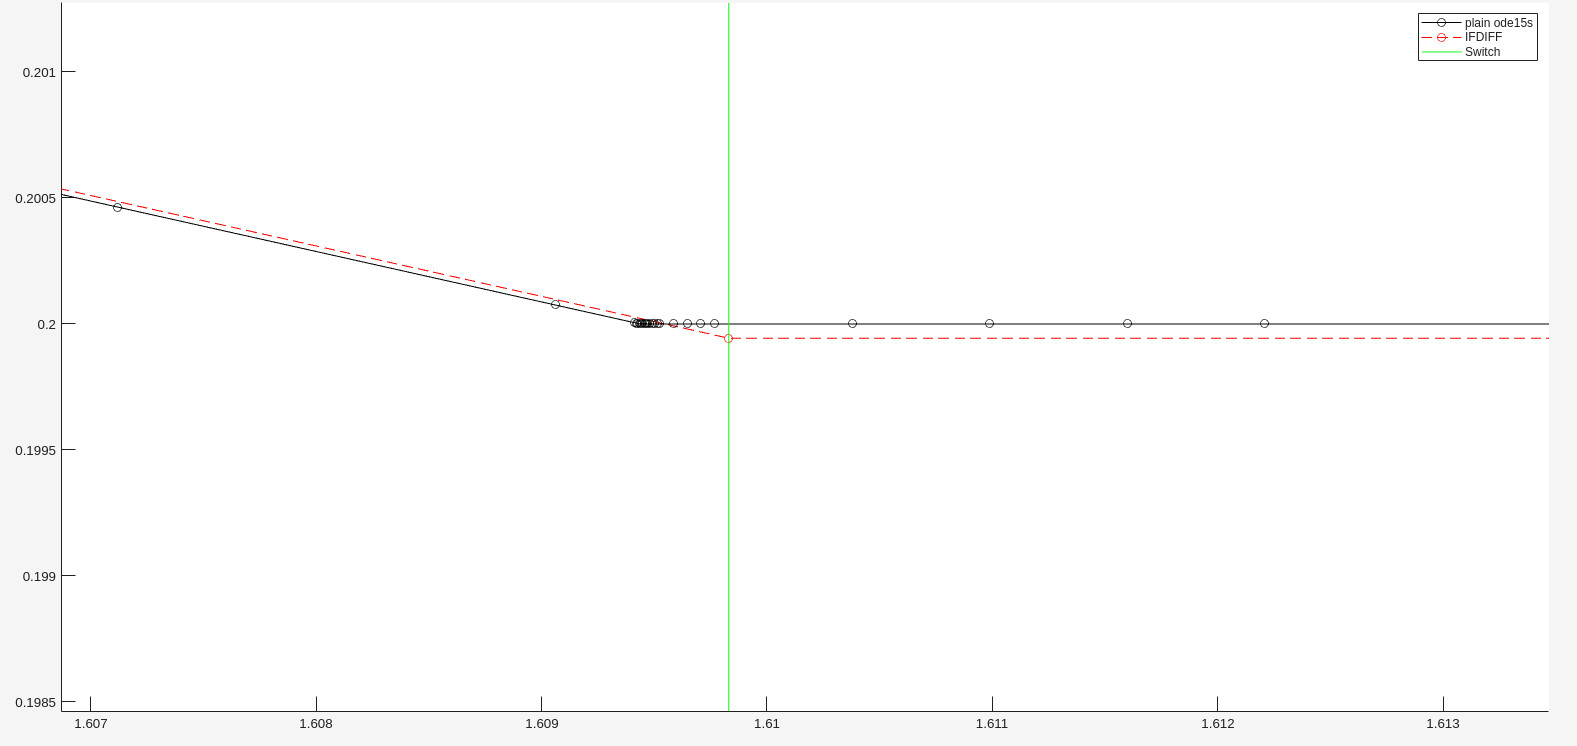
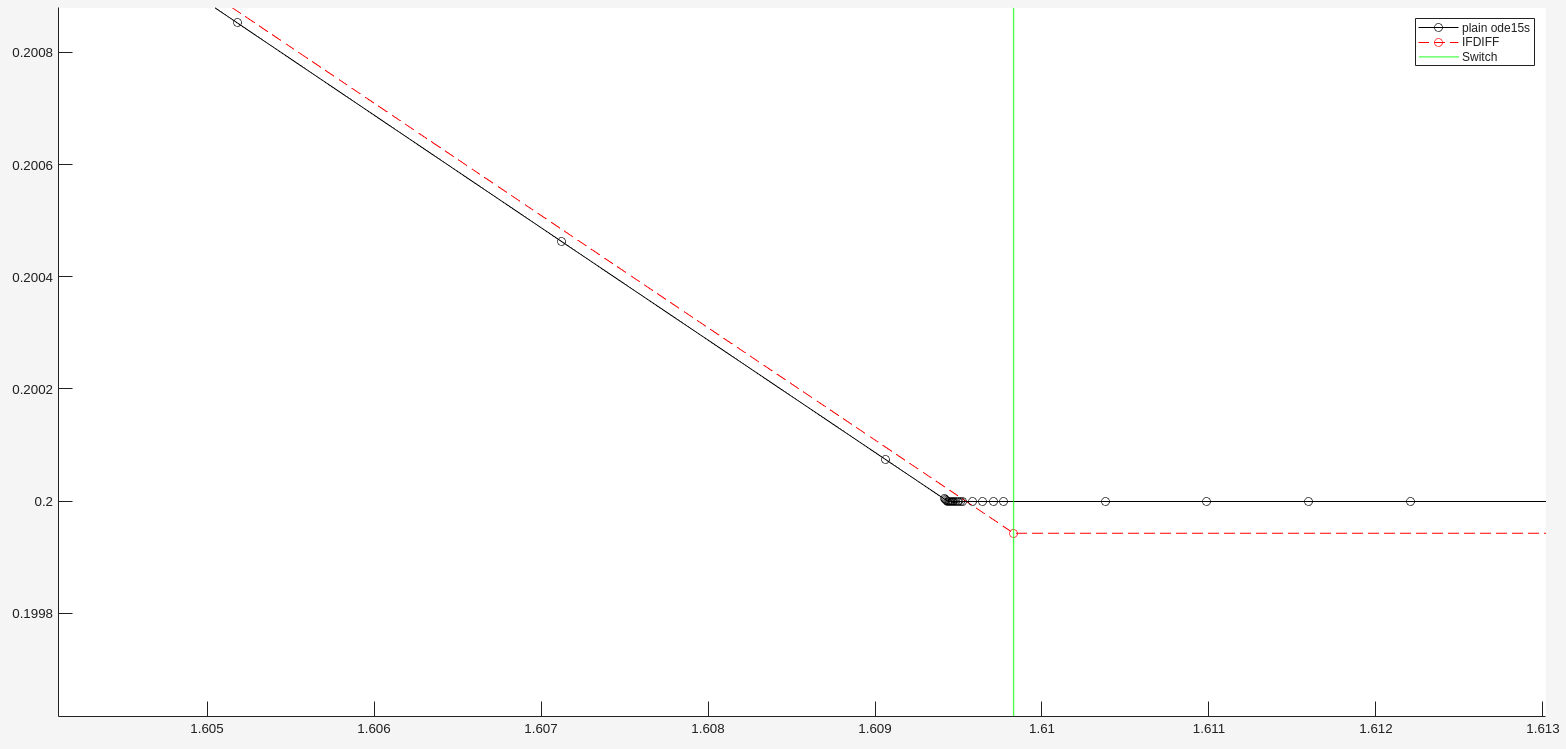
Reworked PR. (See comments)

diff --git a/toolbox/internal/solving/extendODEuntilSwitch_t1_to_t2.m b/toolbox/internal/solving/extendODEuntilSwitch_t1_to_t2.m
@@ -6,42 +6,33 @@ function extendODEuntilSwitch_t1_to_t2(datahandle)
 config = makeConfig();
 data = datahandle.getData();
 
-% last integrator step before switch
-ti = data.SWP_detection.solution_until_t1.x(end); 
-
-% solution at the last time point before switch
-x = deval(data.SWP_detection.solution_until_t1, ti); 
-solution  = data.SWP_detection.solution_until_t1; 
-
-end_point = data.SWP_detection.t2; 
-
-% new step size
-delta_t = end_point - ti;
-
-options   = data.integratorSettings.options;
+solution  = data.SWP_detection.solution_until_t1;
+ti        = solution.x(end);    % last integrator step before switch
+x         = solution.y(:, end); % solution at the last time point before switch
+ 
 solver    = solution.solver;
+options   = data.integratorSettings.options;
+end_point = data.SWP_detection.t2;
 
-% Common setup for all solvers
 ctrlif_setForcedBranchingSignature(datahandle, ti, x);
 data = datahandle.getData();
 data.caseCtrlif = config.caseCtrlif.extendODEuntilSwitch;
 datahandle.setData(data);
 
-z = odextend(solution, [], end_point, [], options);
-data = datahandle.getData();
-data.SWP_detection.solution_until_t2 = z;
-
-% last point strategy for one step solvers
-if config.last_point_strategy.is_active(solver)
+if config.last_point_strategy.is_active(solver) % last point strategy for one step solvers
+ 
+    % new step size
+    delta_t = end_point - ti;
 
     data.integratorSettings.options.InitialStep = delta_t;
     data.integratorSettings.options.AbsTol = 1;
     data.integratorSettings.options.RelTol = 1;
 
-    datahandle.setData(data);
-
     z = odextend(solution, [], end_point, [], options);
     data = datahandle.getData();
+    data.SWP_detection.solution_until_t2 = z;
+else
+    z = odextend(solution, [], end_point, [], options);
     data.SWP_detection.solution_until_t2 = z;
 end
 

diff --git a/toolbox/examples/swb_example.m b/toolbox/examples/swb_example.m
@@ -1,0 +1,20 @@
+% task4.m
+integrator = @ode45;
+options = odeset('AbsTol', 1e-8, 'RelTol', 1e-6);
+
+p = 0.0001;
+tEnd = 30;
+tSpan = [0 tEnd];
+x0 = [0; 1; 0];
+
+% rhs = @(t, x) swbRHS(t, x, p);
+% sol = integrator(rhs, tSpan, x0, options);
+datahandle = prepareDatahandleForIntegration('swbRHS', 'integrator', integrator, 'options', options);  %% SOLVER or INTEGRATOR
+sol = solveODE(datahandle, tSpan, x0, p);
+
+T = 0:0.1:tEnd;
+X = deval(sol, T);
+plot(T, X(1,:), 'r', T, X(2,:), 'b', T, X(3,:), 'g');
+
+% plotSensitivities(sol, @swbRHS, p, integrator, options);
+plotSensitivitiesSwitched(datahandle, sol, p);

diff --git a/toolbox/examples/rlcExample/rlcRHS.m b/toolbox/examples/rlcExample/rlcRHS.m
@@ -2,13 +2,13 @@ function dx = rlcRHS(~,x,p)
     dx  = zeros(3,1);
     L   = p(1); R1  = p(2); R2  = p(3);
     C   = p(4); Vs  = p(5); Vth = p(6);
-    iL  = x(1); VC  = x(2); iC  = x(3);
+    IL  = x(1); VC  = x(2); IC  = x(3);
 
     if VC > Vth
-        dx(1) = (Vs - R1*iL - VC)/L;
+        dx(1) = (Vs - R1*IL - VC)/L;
     else
-        dx(1) = (Vs - R2*iL - VC)/L;
+        dx(1) = (Vs - R2*IL - VC)/L;
     end 
-    dx(2) = iC/C;
-    dx(3) = iL - iC; % algebraic constraint
+    dx(2) = IC/C;
+    dx(3) = IL - IC; % algebraic constraint
 end

diff --git a/toolbox/examples/swbRHS.m b/toolbox/examples/swbRHS.m
@@ -1,0 +1,12 @@
+function dx = swbRHS(~,x,p)
+    dx = zeros(3,1);
+    dx(1) = x(2);
+    dx(2) = -x(1);
+
+    % egal wie kurz man geht, ist bei p=0 immer Schalter
+    if x(1) <= -p
+        if x(1) <= p
+            dx(3) = sign(x(2));
+        end
+    end
+end

diff --git a/toolbox/internal/solving/extendODEuntilSwitch.m b/toolbox/internal/solving/extendODEuntilSwitch.m
@@ -36,8 +36,6 @@ t2FromRootFinding = data.SWP_detection.t2;
 baseOffset = 16*eps(data.SWP_detection.t2);
 iter = 0;
 
-%disp(config.switchingPointErrorThreshold)
-
 while isempty(switchingIndices)
     data = datahandle.getData();
 

diff --git a/toolbox/examples/daeExample/daeExample_README.md b/toolbox/examples/daeExample/daeExample_README.md
@@ -6,12 +6,12 @@ A **differential algebraic equation (DAE)** is a system of equations involving a
 
 In applications, DAEs can be combined with state-dependent events (e.g. contact/no-contact, switching circuits), which leads to systems whose dynamics change when certain state conditions are met. IFDIFF can solve such switched DAEs.
 
-Let's take a look at the following example for $t \in I = [0,n]$ where  $n \in \mathbb{N}$:
+Let's take a look at the following example for $t \in I = [0,t_f]$, $x = (x_1, x_2)^T$:
 
 $$
 (D) \quad
 \begin{cases}
-    \dot{x}_ 1 = f_1(x_2) = 
+    \dot{x}_ 1 = f_1(x) = 
     \begin{cases} 
         x_2, & \text{if } x_2 < p \\
         0, & \text{if } x_2 \geq p
@@ -33,7 +33,7 @@ $$
         x_2, & \text{if } x_2 < p \\
         0, & \text{if } x_2 \geq p
     \end{cases} \\
-    \dot{x}_2 = - \dot{x_1} =
+    \dot{x}_2 = - \dot{x_1} = 
     \begin{cases}
         -x_2, & \text{if } x_2 < p \\
         0, & \text{if } x_2 \geq p
@@ -48,14 +48,31 @@ The system $(D_{\text{ODE}})$ will only exhibit switching behaviour at $p \in (-
 2. Let $p \geq 0:$ At $t = 0$ we have $x_2(0)= -1 < p$. Therefore we only have $\dot{x_2} = - \dot{x_1} \Rightarrow x_1(t) = e^{-t}$ and $x_2(t) = -e^{-t} \quad \forall t \in I$. Since $-e^{-t} < 0 \leq p$, no switch occurs in this situation either.
 3. So, let $p \in (-1, 0)$: In this situation the system starts in case 2, so exponential growth in the 1st and exponential decay in the 2nd component. We now determine the switching point $t_s \in (0,2)$. The switching point satisfies $x_2(t_s)=p$, so $x_2(t_s)=p \iff -e^{-t_s} = p \iff t_s = -\text{ln}(-p) $. (Remember that $-p$ is positive!)
 
-We also notice from the formula $t_s = -\text{ln}(-p)$ that the switching point $t_s$ will be larger as $p$ gets smaller. This means, depending on the parameter, we need to choose a fitting time horizon $I = [0,n]$.
+We also notice from the formula $t_s = -\text{ln}(-p)$ that the switching point $t_s$ will be larger as $p$ gets smaller. This means, depending on the parameter, we need to choose a fitting time horizon $I = [0,t_f]$  where $t_f > 0$.
 
 ## Solution with IFDIFF
 
-In practice, DAE systems are not solved by converting them to an ODE systems. Instead, MATLAB offers the solver `ode15s` for solving DAEs which we will use IFDIFF with.
+In practice, index 1 DAE systems are not solved by converting them to an ODE systems. Instead, MATLAB offers the solver [`ode15s`](https://de.mathworks.com/help/matlab/ref/ode15s.html) for solving DAEs which we will use IFDIFF with. 
+We can write many DAE systems in the form $ M\dot{x} = f(t,x) $ where $M$ is a so called _mass matrix_. Its first row describes the differential variables and its second row the algebraic variables.
+Our rewritten system looks like this: 
 
-### Step 1: Right Hand Side
-We code the Right Hand Side (RHS) as follows.
+$$
+\Bigg[\begin{array}{cc}
+1 & 0 \\
+0 & 0
+\end{array}\Bigg] 
+\left[\begin{array}{c}
+\dot{x}_1 \\
+\dot{x}_2
+\end{array}\right] = \Bigg[\begin{array}{c}
+f_1 \\
+f_2
+\end{array}\Bigg]
+$$
+
+The second row sets $f_2 = 0$ which is our algebraic constraint. We can now begin coding and solving the system.
+
+### Step 1: Right Hand Side (RHS)
 
 ```
 function f = daeExampleRHS(~, x, p)
@@ -111,7 +128,7 @@ hold off
 We notice that the integrator strategy results in small steps here for the plain solver as well as IFDIFF. This is standard behavior for `ode15s` which is a multi-step method; it is not a defect caused by improper treatment of switching events.
 However, if we take a closer look, we see that the integration with IFDIFF is accurate around the switching point. 
 
-![](plots_daeExample/plot1_close2.png)
+![](plots_daeExample/plot1_close.png)
 
 ## Additional Content
 

diff --git a/toolbox/examples/rlcExample/rlcExample_README.md b/toolbox/examples/rlcExample/rlcExample_README.md
@@ -16,11 +16,11 @@ Such a behavior may be observed
 
 ## Model
 
-The system states are $x = (i_L, V_C, i_C)^T$.
+The system states are $x = (I_L, V_C, I_C)^T$.
 
-The inductor $L$ follows Kirchhoff's Voltage Law for the supply $V_s=Ri_L+L\dot{i}_L + V_C$ ($R$ is $R_1$ or $R_2$ depending on the case).
+The inductor $L$ follows Kirchhoff's Voltage Law for the supply $V_s=RI_L+L\dot{I}_L + V_C$ ($R$ is $R_1$ or $R_2$ depending on the case).
 
-The capacitator $C$ follows the capacitor-current-voltage relation $i_C=C\dot{V}_C$ where $V_C$ is the potential difference between the capacitor's positive and negative plates.
+The capacitator $C$ follows the capacitor-current-voltage relation $I_C=C\dot{V}_C$ where $V_C$ is the potential difference between the capacitor's positive and negative plates.
 
 The algebraic constraint in this model is Kirchhoff's Current Law at the inductor-capacitor node:
 
@@ -30,20 +30,20 @@ With this, the DAE system is given by:
 
 $$(\text D_{\text{RLC}}) \quad 
 \begin{cases}
-    \dot{i}_L = 
+    \dot{I}_L = 
     \begin{cases}
-        \frac{V_s - R_1 i_L - V_C}{L}, & \text{if } V_C > V_{\text{th}} \\
-        \frac{V_s - R_2 i_L - V_C}{L}, & \text{if } V_C \leq V_{\text{th}}
+        \frac{V_s - R_1 I_L - V_C}{L}, & \text{if } V_C > V_{\text{th}} \\
+        \frac{V_s - R_2 I_L - V_C}{L}, & \text{if } V_C \leq V_{\text{th}}
     \end{cases} \\
-    \dot{V}_C = \frac{i_C}{C} \\
-    i_L−i_C = 0
+    \dot{V}_C = \frac{I_C}{C} \\
+    I_L−I_C = 0
 \end{cases}
 $$
 
 The system is an index 1 DAE since differentiating yields the second-order ODE:
 
 $$
-\ddot{i}_L+R\dot{i}_L+\frac{1}{C}i_L=0
+\ddot{I}_L+R\dot{I}_L+C^{-1}I_L=0
 $$
 
 
@@ -56,17 +56,17 @@ function dx = rlcRHS(~,x,p)
     dx  = zeros(3,1);
     L   = p(1); R1  = p(2); R2  = p(3);
     C   = p(4); Vs  = p(5); Vth = p(6);
-    iL  = x(1); VC  = x(2); iC  = x(3);
+    IL  = x(1); VC  = x(2); IC  = x(3);
     
     % Mode 1: High resistance (fuse intact)
     if VC > Vth
-        dx(1) = (Vs - R1*iL - VC)/L;
+        dx(1) = (Vs - R1*IL - VC)/L;
     else
     % Mode 2: Low resistance (fuse blown)
-        dx(1) = (Vs - R2*iL - VC)/L;
+        dx(1) = (Vs - R2*IL - VC)/L;
     end 
-    dx(2) = iC/C;
-    dx(3) = iL - iC; % algebraic constraint
+    dx(2) = IC/C;
+    dx(3) = IL - IC; % algebraic constraint
 end
 ```
 
@@ -99,7 +99,7 @@ hold on;
 Plot_ifdiff_1   = plot(sol_ifdiff.x, sol_ifdiff.y(1,:), 'ro--', 'DisplayName', 'IFDIFF'); 
 Plot_plain_1    = plot(sol_plain.x, sol_plain.y(1,:), 'k.-', 'DisplayName', 'plain ode15s');
 Switch_plot_1   = xline(sol_ifdiff.switches, 'b', 'LineWidth', 1.0, 'DisplayName', 'Switch');
-ylabel('i_L (A)');
+ylabel('I_L (A)');
 xlabel('Time (s)');
 legend();
 hold off;
@@ -108,14 +108,14 @@ subplot(2,1,2);
 hold on
 Plot_ifdiff_2  = plot(sol_ifdiff.x, sol_ifdiff.y(2,:), 'ro--', 'DisplayName', 'IFDIFF' );
 Plot_plain_2   =  plot(sol_plain.x, sol_plain.y(2,:), 'k.-', 'DisplayName', 'plain ode15s');
-ylabel('i_C (A) = i_L (A) (via constraint)');
+ylabel('I_C (A) = I_L (A) (via constraint)');
 Switch_plot_2  = xline(sol_ifdiff.switches, 'b', 'LineWidth', 1.0, 'DisplayName', 'Switch');
 xlabel('Time (s)');
 legend();
 hold off;
 ```
 
-![](plots_rlc/rlc_plot_1.png)
+![](plots_rlc/rlc_plot.png)
 ![](plots_rlc/rlc_plot_close.png)
 
 To further investigate this example, take a look at the files `rlc_main.m` and `rlcRHS.m`.
